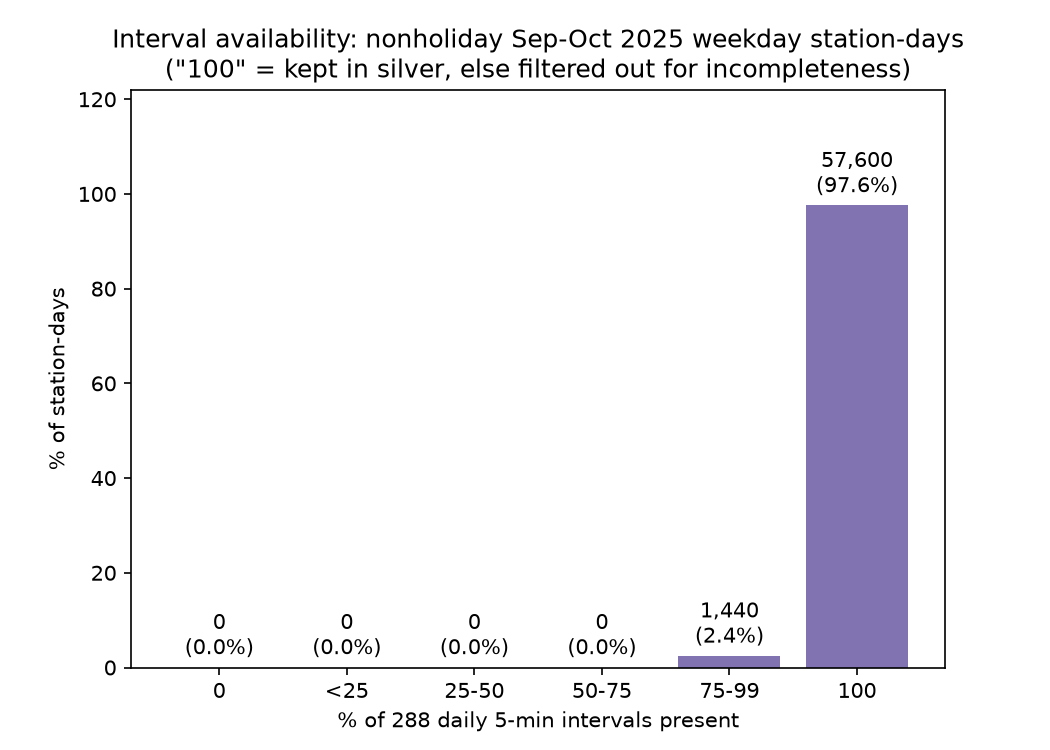
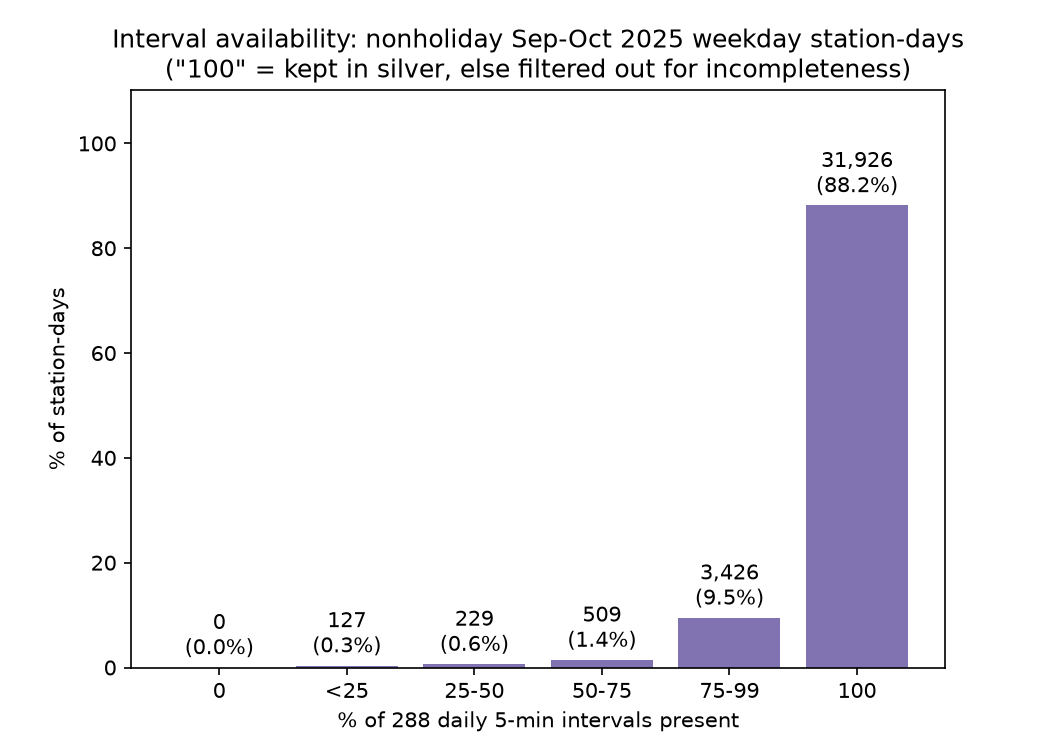
reorg: eda plots on bronze layer

diff --git a/analysis/bronze_pems_summary.py b/analysis/bronze_pems_summary.py
@@ -1,7 +1,18 @@
 # %% [markdown]
-# Read-only exploratory summary of the bronze PeMS layer (bronze_raw_pems_vsc).
+# ## PeMS Bronze Layer: Data Quality Storyline
+#
+# Goal: understand bronze data quality well enough to build a pipeline that
+# only carries forward good-quality data. Structure:
+# 1. General summary of the raw bronze layer
+# 2. The row-level filters silver already applies (`samples > 0`,
+#    `total_flow IS NOT NULL` -- note this is NOT `total_flow > 0`), and how
+#    much data/how many stations they drop
+# 3. Deep dive on `percent_observed` (the detector-health signal), before
+#    and after those filters, at both the raw-record and station-day grain
+#
 # Run cell by cell (VS Code: "Run Cell" above each `# %%`).
-# Does not write anything back to Databricks; not part of the DLT pipeline.
+# Read-only against bronze_raw_pems_vsc; does not write anything back to
+# Databricks and is not part of the DLT pipeline.
 
 # %%
 from pathlib import Path
@@ -18,29 +29,10 @@ PLOTS_DIR.mkdir(exist_ok=True)
 
 print(f"Total rows: {bronze.count():,}")
 
-# %% Stations dropped entirely by silver's samples>0 AND total_flow IS NOT NULL filters 
-total_stations = bronze.select("station").distinct().count()
-stations_with_surviving_rows = (
-    bronze
-    .filter((F.col("samples") > 0) & F.col("total_flow").isNotNull())
-    .select("station")
-    .distinct()
-    .count()
-)
-stations_fully_dropped = total_stations - stations_with_surviving_rows
+# %% [markdown]
+# ### 1. General summary
 
-print(f"Total distinct stations in bronze: {total_stations:,}")
-print(
-    f"Stations with >=1 row passing samples>0 AND total_flow NOT NULL: "
-    f"{stations_with_surviving_rows:,} ({stations_with_surviving_rows / total_stations * 100:.1f}%)"
-)
-print(
-    f"Stations with ZERO surviving rows (fully dropped before silver aggregates): "
-    f"{stations_fully_dropped:,} ({stations_fully_dropped / total_stations * 100:.1f}%)"
-)
- 
 # %% Distributions of key raw fields
-# these filters are used in the silver layer, so it's useful to see how many rows are dropped by each one
 quantile_cols = ["percent_observed", "samples", "total_flow", "avg_occupancy", "avg_speed"]
 quantiles = [0.0, 0.05, 0.25, 0.5, 0.75, 0.95, 1.0]
 rows = [(c, *bronze.approxQuantile(c, quantiles, 0.001)) for c in quantile_cols]
@@ -54,10 +46,16 @@ bronze.select(
     F.sum(F.when(F.col("samples") <= 0, 1).otherwise(0)).alias("zero_or_negative_samples"),
 ).show()
 
+# %% [markdown]
+# ### 2. Filters the pipeline already applies (silver layer)
+#
+# `02-silver_pems_weekday_counts.py` drops bronze rows where `samples <= 0`
+# OR `total_flow IS NULL` -- BEFORE it ever aggregates to station-day. Note
+# this is `total_flow IS NOT NULL`, not `total_flow > 0`. `filtered_bronze`
+# (rows passing both) is defined here and reused everywhere below to match
+# exactly what silver actually sees.
+
 # %% samples (0 vs >0) x total_flow (NULL vs NOT NULL) cross-tab
-# Relevant because silver's row-level filters (samples > 0, total_flow IS NOT
-# NULL) drop rows independently -- this shows how much each filter catches
-# on its own vs. how much overlaps.
 samples_flow_pdf = (
     bronze
     .withColumn("samples_cat", F.when(F.col("samples") > 0, F.lit(">0")).otherwise(F.lit("0")))
@@ -70,7 +68,32 @@ samples_flow_pdf = (
 )
 print(samples_flow_pdf)
 
-# %% percent_observed bucket distribution + plot
+# %% Build filtered_bronze (silver's row-level filters) + stations dropped entirely
+filtered_bronze = bronze.filter((F.col("samples") > 0) & F.col("total_flow").isNotNull())
+
+total_stations = bronze.select("station").distinct().count()
+stations_with_surviving_rows = filtered_bronze.select("station").distinct().count()
+stations_fully_dropped = total_stations - stations_with_surviving_rows
+
+print(f"Total distinct stations in bronze: {total_stations:,}")
+print(
+    f"Stations with >=1 row passing samples>0 AND total_flow NOT NULL: "
+    f"{stations_with_surviving_rows:,} ({stations_with_surviving_rows / total_stations * 100:.1f}%)"
+)
+print(
+    f"Stations with ZERO surviving rows (fully dropped before silver aggregates): "
+    f"{stations_fully_dropped:,} ({stations_fully_dropped / total_stations * 100:.1f}%)"
+)
+
+# %% [markdown]
+# ### 3. Exploring percent_observed (the detector-health signal)
+#
+# Record-level buckets before/after the filters above, then station-day
+# grain (interval availability + average percent_observed), matching
+# silver's exact population (service_date, nonholiday Sep-Oct 2025
+# weekdays) so the "100" buckets line up with what silver actually keeps.
+
+# %% percent_observed bucket distribution (all bronze records) + plot
 # Thresholds must stay high-to-low for the top-down .when() chain below.
 PO_BUCKETS = [(100, "100"), (75, "75-99"), (50, "50-75"), (25, "25-50")]
 PO_BUCKET_ORDER = ["0", "<25", "25-50", "50-75", "75-99", "100"]  # small to large, for display
@@ -112,14 +135,49 @@ ax.bar_label(bars, labels=labels, padding=3)
 fig.savefig(PLOTS_DIR / "percent_observed_buckets.png", dpi=150)
 plt.show()
 
+# %% percent_observed bucket distribution, AFTER silver's row-level filters + plot
+# Same buckets as above, but restricted to filtered_bronze -- rows that
+# structurally survive to be aggregated, before the 288-interval
+# completeness gate is even considered. Answers: among the data silver
+# doesn't immediately throw out, how much residual partial-imputation
+# is left (vs. the dead-sensor rows already excluded)?
+filtered_bucket_pdf = (
+    filtered_bronze.withColumn("po_bucket", bucket_expr)
+    .groupBy("po_bucket")
+    .agg(F.count("*").alias("records"))
+    .withColumn("pct_of_total", F.round(F.col("records") * 100.0 / F.sum("records").over(Window.partitionBy()), 2))
+    .toPandas()
+    .set_index("po_bucket")
+    .reindex(PO_BUCKET_ORDER)
+    .fillna(0)
+    .reset_index()
+)
+print(filtered_bucket_pdf)
+
+fig, ax = plt.subplots(figsize=(7, 5))
+bars = ax.bar(filtered_bucket_pdf["po_bucket"], filtered_bucket_pdf["pct_of_total"], color="#4C72B0")
+ax.set_xlabel("percent_observed bucket")
+ax.set_ylabel("% of records passing samples>0 & total_flow filters")
+ax.set_title("Bronze (post silver row-filters): percent_observed bucket distribution")
+ax.set_ylim(0, filtered_bucket_pdf["pct_of_total"].max() * 1.25)
+labels = [
+    f"{int(records):,}\n({pct:.1f}%)"
+    for records, pct in zip(filtered_bucket_pdf["records"], filtered_bucket_pdf["pct_of_total"])
+]
+ax.bar_label(bars, labels=labels, padding=3)
+fig.savefig(PLOTS_DIR / "percent_observed_buckets_post_filter.png", dpi=150)
+plt.show()
+
 # %% Interval availability: % of 288 daily 5-min intervals present, per station-day
 # Different from percent_observed above -- this measures whether a bronze row
 # exists at all for each 5-min slot, not sensor health within a reported row.
 #
 # Matches silver_pems_weekday_counts_vsc's population and completeness gate
-# exactly: service_date (3AM-3AM, not calendar midnight), nonholiday Sep/Oct
-# 2025 weekdays only. So the "100" bucket here = station-days kept in silver;
-# everything else = filtered out for incomplete interval coverage.
+# exactly: starts from filtered_bronze (silver's samples>0 & total_flow
+# IS NOT NULL row-level filters, applied BEFORE periods_day is computed --
+# same order silver uses), then service_date (3AM-3AM, not calendar
+# midnight), nonholiday Sep/Oct 2025 weekdays only. So the "100" bucket here
+# = station-days actually kept in silver; everything else = filtered out.
 holiday_dates = (
     spark.read.table("travel_data.pems.ref_pems_holidays_vsc")
     .select("holiday_date")
@@ -127,7 +185,7 @@ holiday_dates = (
 )
 
 service_dated = (
-    bronze
+    filtered_bronze
     .withColumn("calendar_date", F.to_date("timestamp"))
     .withColumn("minute_of_day", F.hour("timestamp") * 60 + F.minute("timestamp"))
     .withColumn(
@@ -237,28 +295,31 @@ fig.savefig(PLOTS_DIR / "station_day_percent_observed_buckets.png", dpi=150)
 plt.show()
 
 # %% How many stations survive if we only keep station-days with avg_percent_observed == 100?
-total_stations = interval_counts.select("station").distinct().count()
+total_stations_pop = interval_counts.select("station").distinct().count()
 stations_with_clean_day = (
     interval_counts.filter(F.col("avg_percent_observed") == 100)
     .select("station")
     .distinct()
     .count()
 )
-stations_with_zero_clean_days = total_stations - stations_with_clean_day
+stations_with_zero_clean_days = total_stations_pop - stations_with_clean_day
 
-print(f"Total stations in population: {total_stations:,}")
+print(f"Total stations in population: {total_stations_pop:,}")
 print(
     f"Stations with >=1 fully-observed (100%) station-day: "
-    f"{stations_with_clean_day:,} ({stations_with_clean_day / total_stations * 100:.1f}%)"
+    f"{stations_with_clean_day:,} ({stations_with_clean_day / total_stations_pop * 100:.1f}%)"
 )
 print(
     f"Stations with ZERO fully-observed station-days (fully dropped): "
-    f"{stations_with_zero_clean_days:,} ({stations_with_zero_clean_days / total_stations * 100:.1f}%)"
+    f"{stations_with_zero_clean_days:,} ({stations_with_zero_clean_days / total_stations_pop * 100:.1f}%)"
 )
 
 # %% Daily average percent_observed trend + plot
+# Uses filtered_bronze (samples>0 & total_flow IS NOT NULL) -- same rows
+# silver actually aggregates, so the dead-sensor rows already excluded from
+# silver don't drag this trend down.
 daily_pdf = (
-    bronze
+    filtered_bronze
     .withColumn("calendar_date", F.to_date("timestamp"))
     .groupBy("calendar_date")
     .agg(
@@ -274,9 +335,28 @@ fig, ax = plt.subplots(figsize=(11, 5))
 ax.plot(daily_pdf["calendar_date"], daily_pdf["avg_percent_observed"], marker="o", markersize=3, color="#55A868")
 ax.set_xlabel("date")
 ax.set_ylabel("avg percent_observed")
-ax.set_title("Bronze: daily average percent_observed (Sep-Oct 2025)")
+ax.set_title("Bronze (post silver row-filters): daily average percent_observed (Sep-Oct 2025)")
 ax.set_ylim(0, 100)
 fig.autofmt_xdate()
 fig.savefig(PLOTS_DIR / "percent_observed_daily_trend.png", dpi=150)
 plt.show()
- 
+
+# %% [markdown]
+# ### What this means for a "good-quality data" pipeline
+#
+# - Silver's existing `samples > 0` / `total_flow IS NOT NULL` filters
+#   already drop ~40% of raw bronze rows, and ~35% of stations lose *all*
+#   their rows outright -- before the 288-interval completeness gate even
+#   runs.
+# - Among rows that DO survive those filters, station-days split roughly
+#   evenly between fully clean (100% observed) and completely dead (0%
+#   observed) -- there's very little "mostly good, a bit noisy."
+# - Silver's `periods_day = 288` gate only checks that a row exists per
+#   5-min slot, not whether `percent_observed` was healthy that day. A
+#   dead-but-present sensor can still pass that gate if enough of its rows
+#   individually clear `samples > 0` (partial-lane cases).
+# - A genuine "good-quality data" guarantee would need a station-day-level
+#   quality gate on `percent_observed` (e.g. `avg_percent_observed == 100`,
+#   or some threshold) in addition to -- not instead of -- the existing
+#   completeness check, since completeness and sensor health are
+#   independent conditions.
